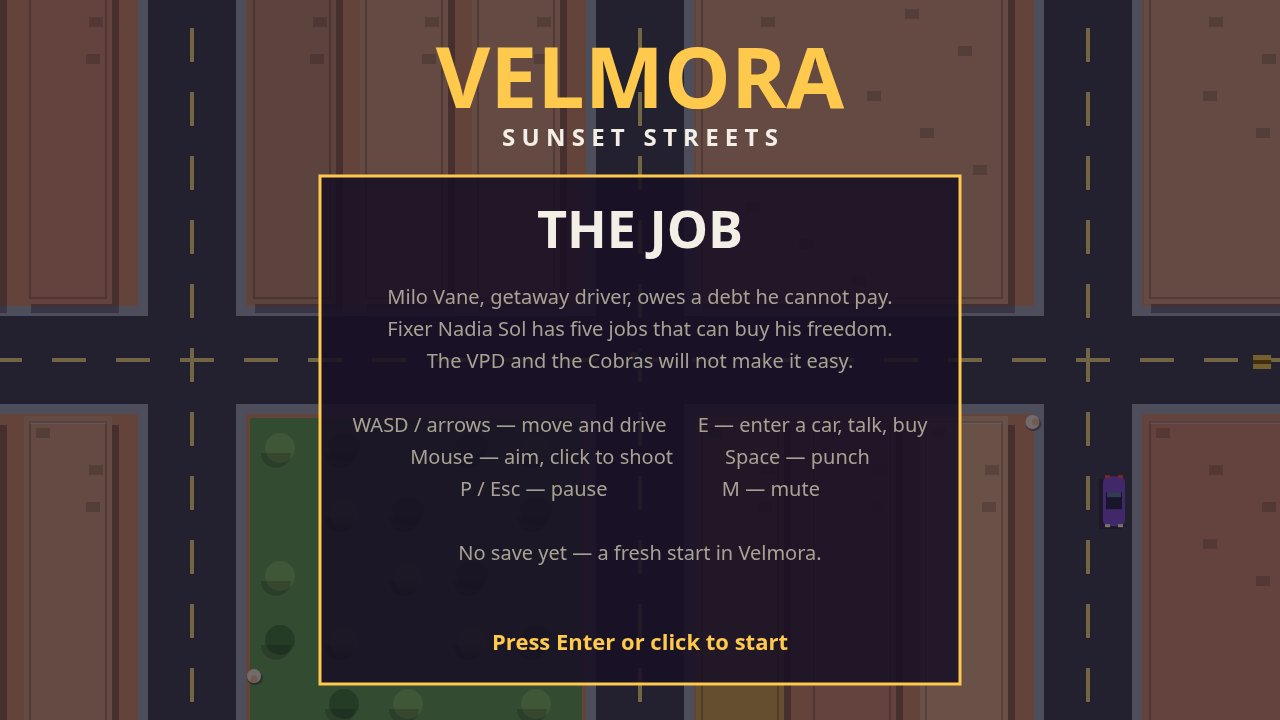
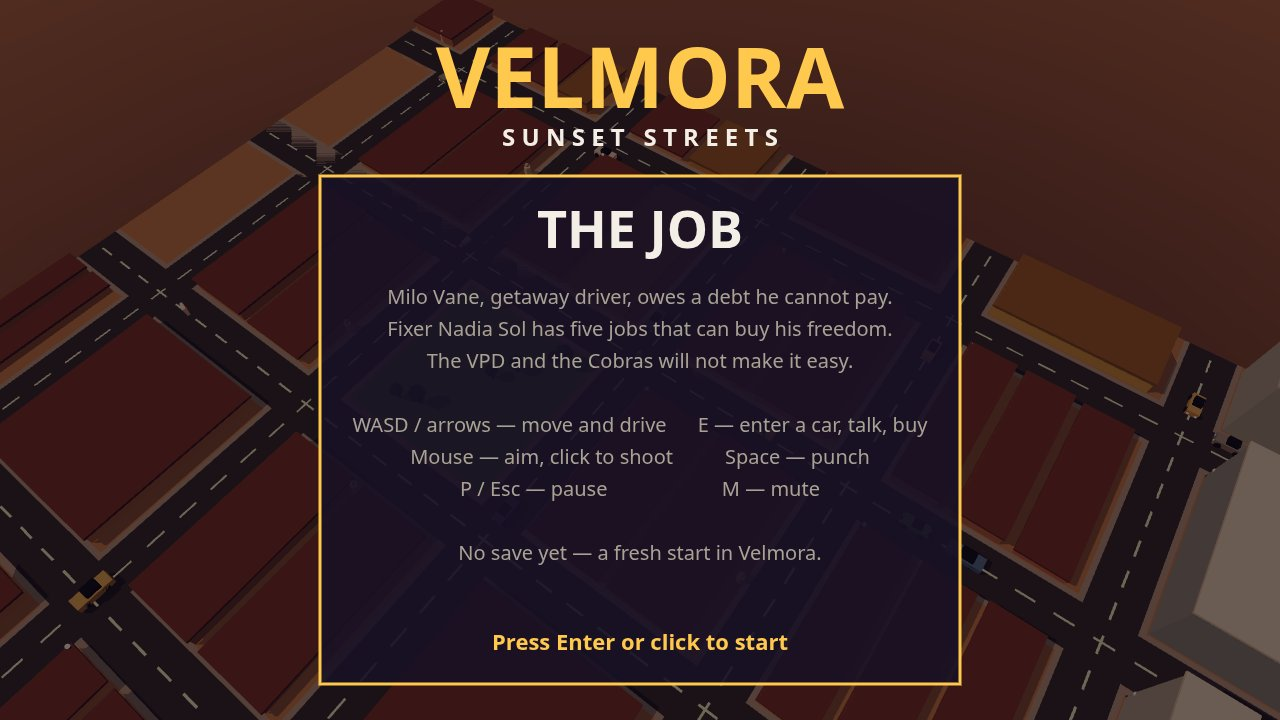
Polish 3D shots: gradient sky dome, higher chase/follow cameras, lighter warehouse roofs
- scene3d.js: gradient sunset sky dome (horizon peach -> dusk mauve, sun
  glow, warm haze below horizon) replaces the flat background colour, so
  the sky never reads as an empty peach wall; dome re-centres on the
  player each frame. Warehouse roof colour lightened.
- Cameras look slightly further down so the road fills more of the frame
  and a tailgating police car no longer dominates the chase shot:
  chase height 145 -> 190, dist 300 -> 330; follow height 150 -> 175.
- Screenshots re-shot with SwiftShader (cover 159,814 B, chase 77,633 B,
  mission 106,427 B, start 99,114 B; all under 256 KiB).

diff --git a/game/src/scene3d.js b/game/src/scene3d.js
@@ -94,7 +94,7 @@ function buildingDepth(b, spans) {
 
 const ROOF_COLORS = {
   tower: '#dfeaf2',
-  warehouse: '#5a5148',
+  warehouse: '#7d6a58',
   house: '#6e4a3a',
   shop: '#8a6f3a',
 };
@@ -114,6 +114,38 @@ export function createScene3D(glCanvas, city) {
   const scene = new THREE.Scene();
   scene.background = new THREE.Color(SUNSET_SKY);
   scene.fog = new THREE.Fog(SUNSET_FOG, FOG_NEAR, FOG_FAR);
+
+  // Gradient sunset sky dome (horizon peach -> dusk mauve above, warm haze
+  // below, sun glow toward the sun). It replaces the flat background colour
+  // so the sky never reads as an empty peach wall; it ignores fog, writes no
+  // depth, and is re-centred on the player every frame in updateCamera.
+  const skyMat = new THREE.ShaderMaterial({
+    side: THREE.BackSide,
+    depthWrite: false,
+    uniforms: {
+      topColor: { value: new THREE.Color(0x6a4a7a) },
+      horizonColor: { value: new THREE.Color(0xffc98a) },
+      groundColor: { value: new THREE.Color(0x8a5a3a) },
+      sunDir: { value: new THREE.Vector3(-0.55, 0.72, 0.42).normalize() },
+      sunColor: { value: new THREE.Color(0xffd9a0) },
+    },
+    vertexShader: 'varying vec3 vDir; void main() { vDir = normalize(position); gl_Position = projectionMatrix * modelViewMatrix * vec4(position, 1.0); }',
+    fragmentShader: [
+      'varying vec3 vDir;',
+      'uniform vec3 topColor; uniform vec3 horizonColor; uniform vec3 groundColor;',
+      'uniform vec3 sunDir; uniform vec3 sunColor;',
+      'void main() {',
+      '  float h = clamp(vDir.y, -1.0, 1.0);',
+      '  vec3 col = h >= 0.0 ? mix(horizonColor, topColor, pow(h, 0.55)) : mix(horizonColor, groundColor, pow(-h, 0.6));',
+      '  float s = max(dot(normalize(vDir), normalize(sunDir)), 0.0);',
+      '  col += sunColor * pow(s, 24.0) * 0.55;',
+      '  gl_FragColor = vec4(col, 1.0);',
+      '}',
+    ].join('\n'),
+  });
+  const sky = new THREE.Mesh(new THREE.SphereGeometry(9000, 24, 16), skyMat);
+  sky.frustumCulled = false;
+  scene.add(sky);
 
   const camera = new THREE.PerspectiveCamera(CFG.fov || 55, VIEW_W / VIEW_H, CFG.near || 10, CFG.far || 12000);
   camera.position.set(0, 400, 600);
@@ -551,22 +583,22 @@ export function createScene3D(glCanvas, city) {
       lookZ = tz;
       fov = CFG.highFov || 50;
     } else if (mode === 'chase') {
-      const h = CFG.chaseHeight || 145;
+      const h = CFG.chaseHeight || 190;
       eyeX = tx + Math.cos(behind) * dist;
       eyeY = h;
       eyeZ = tz + Math.sin(behind) * dist;
       lookX = tx + Math.cos(heading) * 130;
-      lookY = 16;
+      lookY = 12;
       lookZ = tz + Math.sin(heading) * 130;
       const speed = player.car ? Math.abs(player.car.speed || 0) : 0;
       fov = (CFG.fov || 55) + clamp(speed / 640, 0, 1) * (CFG.fovKick || 12);
     } else {
-      const h = CFG.followHeight || 150;
+      const h = CFG.followHeight || 175;
       eyeX = tx + Math.cos(behind) * dist;
       eyeY = h;
       eyeZ = tz + Math.sin(behind) * dist;
       lookX = tx + Math.cos(heading) * 60;
-      lookY = 14;
+      lookY = 12;
       lookZ = tz + Math.sin(heading) * 60;
     }
     if (!cameraInit || dt <= 0) {
@@ -592,6 +624,8 @@ export function createScene3D(glCanvas, city) {
     sun.position.set(tx + sunDir.x * 1600, sunDir.y * 1600, tz + sunDir.z * 1600);
     sun.target.position.set(tx, 0, tz);
     sun.target.updateMatrixWorld();
+    // The sky dome follows the player so the camera never leaves it.
+    sky.position.set(tx, 0, tz);
   }
 
   // ---- per-frame sync -------------------------------------------------------

diff --git a/game/src/config.js b/game/src/config.js
@@ -147,9 +147,9 @@ export const THREE_VERSION = '0.187.0';
 /** 3D camera + sunset rig (scene3d.js). Distances are world units, FOV in degrees. */
 export const CAMERA3D = {
   followDist: 210,
-  followHeight: 150,
-  chaseDist: 300,
-  chaseHeight: 145,
+  followHeight: 175,
+  chaseDist: 330,
+  chaseHeight: 190,
   highDist: 1800, // wide establishing shot: ~7 blocks of road grid in frame
   highPitchDeg: 57,
   highFov: 50,
